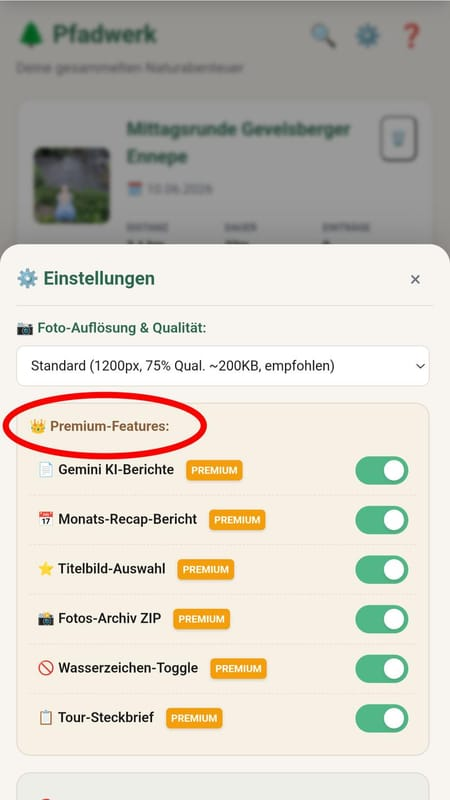
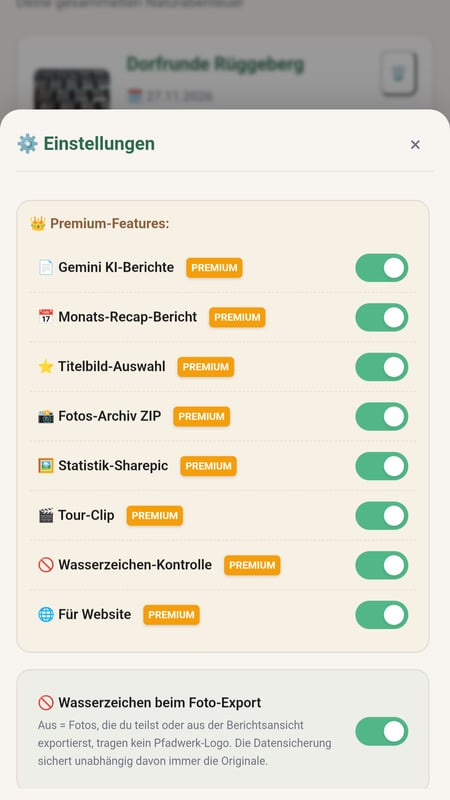
Pfadwerk-Seite auf 4.13.3 mit neuen Screenshots, Datenschutz 5.5 zu Google-Schriften angepasst

diff --git a/src/legal/datenschutz.html b/src/legal/datenschutz.html
@@ -70,7 +70,7 @@
 
           <p class="text-stone-400 font-medium mt-3 mb-1">5.5 Keine Werbung, kein Tracking</p>
           <p>Pfadwerk enthält keine Werbe-SDKs und keine Analyse- oder Tracking-Software und sendet keine Nutzungsstatistiken an uns.</p>
-          <p class="mt-2">Exportierte HTML-Berichte laden beim Öffnen mit Internetverbindung Schriften von Google; dabei erhält Google die IP-Adresse der Person, die den Bericht öffnet.</p>
+          <p class="mt-2">HTML-Berichte, die mit einer App-Version vor 4.13.3 exportiert wurden oder werden, laden beim Öffnen mit Internetverbindung Schriften von Google; dabei erhält Google die IP-Adresse der Person, die den Bericht öffnet.</p>
 
           <p class="text-stone-400 font-medium mt-3 mb-1">5.6 Benötigte Berechtigungen (Übersicht)</p>
           <ul class="mt-2 space-y-1.5 pl-4 list-disc list-outside">

diff --git a/src/content/pages/pfadwerk.md b/src/content/pages/pfadwerk.md
@@ -3,7 +3,7 @@ title: Pfadwerk
 description: Pfadwerk ist eine Android-App zum Dokumentieren von Wanderungen, Spaziergängen und Radtouren. Touren, Logbuch, GPS, Wetter, Fotos, Statistik und Berichte – die Daten bleiben standardmäßig auf dem Gerät.
 badge: 📱 App-Projekt
 subtitle: Draußen sein. Aufschreiben. Nicht vergessen.
-status: "Stand: September 2026"
+status: "Stand: November 2026"
 ---
 *Eine App. Ein Projekt. Eine kleine Liebesgeschichte mit der Natur. · Björn alias Mo, Vater von mitrilmo · 2026*
 
@@ -11,7 +11,7 @@ status: "Stand: September 2026"
 
 ## 1. Der Grundgedanke
 
-Es beginnt, wie so viele gute Ideen, mit einem kleinen Ärgernis: Man kommt von einer wunderschönen Wanderung zurück, möchte kurz festhalten, wo man war, wie das Wetter war, welche Ausrüstung gefehlt hat — und stellt fest, dass die vorhandenen Apps entweder zu viel wollen (Strava zählt Kalorien, als ob das je jemanden interessiert), zu wenig können (Notizen-Apps kennen keine Touren) oder einfach nicht so funktionieren, wie man selbst denkt.
+Es beginnt, wie so viele gute Ideen, mit einem kleinen Ärgernis: Man kommt von einer wunderschönen Wanderung zurück, möchte kurz festhalten, wo man war, wie das Wetter war, welche Ausrüstung gefehlt hat — und stellt fest, dass die vorhandenen Apps entweder zu viel wollen (Fitness-Apps zählen Kalorien, als ob das je jemanden interessiert), zu wenig können (Notizen-Apps kennen keine Touren) oder einfach nicht so funktionieren, wie man selbst denkt.
 
 Pfadwerk ist die Antwort darauf. Eine App, die genau das macht, was ein Wandertagebuch machen würde — nur eben digital, immer dabei und ohne dass man am nächsten Morgen die eigene Handschrift entziffern muss.
 
@@ -22,7 +22,8 @@ Der Name ist Programm: "Pfad" für die Wege, die man geht. "Werk" für das Handw
 Pfadwerk ist kein Fitness-Tracker. Es interessiert sich nicht dafür, wie viele Kalorien man beim Aufstieg verbrannt hat. Es gibt keine sozialen Feeds, keine Ranglisten. Stattdessen:
 
 - Touren dokumentieren — Wanderungen, Spaziergänge und Radtouren
-- Touren vorab planen und am Tourtag mit einem Tipp starten
+- Touren vorab planen, mit Packliste und Strecke, und am Tourtag mit einem Tipp starten
+- Aus den Tourfotos ein kurzes Hochformat-Video erstellen (Premium)
 - GPS-Spur aufzeichnen, ohne dass der Akku sofort kapituliert
 - Unterwegs Logbuch-Einträge schreiben, Fotos schießen, Koordinaten speichern
 - Wetter festhalten — weil man das in drei Jahren vergessen hat
@@ -40,13 +41,13 @@ Und das alles funktioniert offline, ohne Cloud-Konto, ohne monatliche Gebühren.
 ## 2. Wie es entstand — Eine ehrliche Geschichte
 
 ![Pfadwerk Anleitung Einstieg](../../assets/images/pfadwerk/Abb2.jpg)
-*Abb. 2: Pfadwerks vier Hauptbereiche.*
+*Abb. 2: Der erste Einstieg in der Anleitung.*
 
 Pfadwerk ist ein Ein-Personen-Projekt, entstanden in Zusammenarbeit mit einer KI. Das klingt zunächst weniger romantisch als "ich habe das in einer Garage alleine gebaut" — ist aber die ehrlichste Beschreibung dessen, was hier passiert ist.
 
 Die App wurde in mehreren Entwicklungs-Blöcken aufgebaut und anschließend in mehreren Feldtests auf echten Wanderungen erprobt. Die dabei gefundenen Fehler wurden akribisch protokolliert und behoben — was erklärt, warum die App in Version 4.9.53 angekommen ist, bevor sie am 22.07.2026 im Store erschien.
 
-Seitdem geht es weiter: Eigene Touren, Rückmeldungen und neue Ideen führen zu Korrekturen und neuen Funktionen. Aktuell ist die App bei Version 4.9.80.
+Seitdem geht es weiter: Eigene Touren, Rückmeldungen und neue Ideen führen zu Korrekturen und neuen Funktionen. Aktuell ist die App bei Version 4.13.3.
 
 ### Die Entwicklungs-Blöcke
 
@@ -61,7 +62,7 @@ Die App entstand in klar strukturierten Phasen:
 Pfadwerk wurde in mehreren Runden ausgiebig im echten Einsatz getestet. Jede Runde brachte neue Erkenntnisse — und neue Commits.
 
 ![Pfadwerk Die 3 Bereiche](../../assets/images/pfadwerk/Abb3.jpg)
-*Abb. 3: Die untere Navigationsleiste.*
+*Abb. 3: Die drei Bereiche der App.*
 
 ### Datenspeicherung — Lokal und sicher
 
@@ -83,7 +84,7 @@ Das Ergebnis: Eine App, die sich nativ anfühlt, schnell ist und keinen Server b
 - **Plattform:** Android (nativ)
 - **Datenspeicherung:** Lokal, KI optional online
 - **GPS:** Hintergrund-Tracking
-- **Version:** v4.9.80
+- **Version:** v4.13.3
 
 ## 4. Die Funktionen im Detail
 
@@ -138,9 +139,12 @@ Fotos lassen sich direkt aus der App heraus schießen oder aus der Galerie impor
 ![Foto mit Pfadwerk-Wasserzeichen](../../assets/images/pfadwerk/Abb10.jpg)
 *Abb. 10: Das Pfadwerk-Logo als Wasserzeichen auf Fotos.*
 
+![Foto mit Notiz teilen](../../assets/images/pfadwerk/Abb16.jpg)
+*Abb. 11: „Mit Notiz teilen“ mit Vorschau.*
+
 ### 4.8 Touren vorab planen
 
-Eine Route ist schon im Kopf oder in einer anderen App geplant? Dann lässt sich die Tour vorab erfassen — mit Name, Start und Ziel, Datum, Anreise, Ausrüstung und Tipps, ganz ohne GPS-Start. Die Übersicht zeigt alle geplanten Touren, sie lassen sich bearbeiten oder löschen. Am Tourtag genügt ein Tipp auf „Starten“: Die Angaben sind übernommen, und die GPS-Aufzeichnung beginnt.
+Eine Route ist schon im Kopf oder in einer anderen App geplant? Dann lässt sich die Tour vorab erfassen — mit Name, Start und Ziel, Datum, Anreise, Ausrüstung und Tipps, ganz ohne GPS-Start. Die Übersicht zeigt alle geplanten Touren, sie lassen sich bearbeiten oder löschen. Dazu kommen eine Packliste je Tourart zum Abhaken und die Eckdaten der Strecke, von Hand eingetragen oder aus einer GPX-Datei gelesen. Am Tourtag genügt ein Tipp auf „Starten“: Die Angaben sind übernommen, und die GPS-Aufzeichnung beginnt.
 
 ### 4.9 Statistik und Jahresziele
 
@@ -151,7 +155,7 @@ Das Statistik-Dashboard zeigt Gesamtkilometer, Anzahl der Touren, die häufigste
 Am Ende einer Tour, wenn man wieder zuhause ist und die Wanderschuhe in der Ecke stehen, fängt der zweite Teil von Pfadwerk an: die Dokumentation.
 
 ![Berichte Tab](../../assets/images/pfadwerk/Abb11.jpg)
-*Abb. 11: Berichte Tab (Template / KI).*
+*Abb. 12: Berichte Tab (Template / KI).*
 
 ### 5.1 Automatisch generierte Berichte
 
@@ -159,26 +163,32 @@ Pfadwerk erstellt aus den erfassten Daten automatisch Berichte in drei Varianten
 
 - **Langer Bericht:** Vollständige Dokumentation aller Daten
 - **Kurzer Bericht:** Kompakter Überblick, ideal zum Teilen
-- **Social-Media-Post:** Fertig formuliert für Instagram & Co.
+- **Social-Media-Post:** Fertig formuliert für soziale Netzwerke
 
 ### 5.2 Exporte
 
 - **HTML-Export (Premium):** Vollständiger Blog-Beitrag als HTML-Datei — mit Fotos, GPS-Daten und formatiertem Text
-- **GPX-Export:** GPS-Spur im Standardformat für Navi-Apps und Komoot
+- **GPX-Export:** GPS-Spur im Standardformat für Navi- und Routenplanungs-Apps
 - **TXT-Export:** Alle Daten als einfache Textdatei
 - **PDF-Export (Premium):** Fertig formatierter Bericht zum Ausdrucken oder Weitergeben — mit den Fotos neben dem Text in zwei Spalten
-- **Sharepic (Premium):** Bild mit Routen-Silhouette und den wichtigsten Zahlen einer Tour, zum Teilen
+- **Sharepic (Premium):** Bild mit Routen-Silhouette, Start- und Zielort und den wichtigsten Zahlen einer Tour, in 4:5 oder im Hochformat 9:16
+- **Clip (Premium):** Hochformat-Video aus den Fotos einer abgeschlossenen Tour, siehe unten
+- **Für Website (Premium):** eine Tour mit Daten, Strecke und Titelbild als ZIP-Datei
 
-![Export Dialog](../../assets/images/pfadwerk/Abb12.jpg)
-*Abb. 12: GPX-, HTML- und TXT-Export.*
+![Dialog „Tour exportieren & teilen“](../../assets/images/pfadwerk/Abb12.jpg)
+*Abb. 13: Tour exportieren und teilen.*
 
-### 5.3 Datensicherung
+### 5.3 Clip aus Tourfotos
+
+Aus den Fotos einer abgeschlossenen Tour entsteht auf dem Gerät ein Video im Hochformat, 15 bis 45 Sekunden lang: Startkarte mit Tourname, die ausgewählten Fotos, bei aufgezeichneter Strecke das Sharepic und eine Endkarte. Als Ton wählst du eine eigene Audiodatei, etwa Musik oder einen Kommentar, den du vorher aufgenommen hast, oder du lässt den Clip stumm. Ein Lieblingsstück kannst du als Standardmusik merken; dann richtet sich die Länge nach den Fotos, und die Musik wird ausgeblendet. Verwende nur Audio, das du teilen darfst. Der Clip ist als Rohmaterial für einen Videoeditor gedacht.
+
+### 5.4 Datensicherung
 
 Verlassen sollte man sich auf die eigene Datensicherung von Pfadwerk. Sie wird von Hand angestoßen. Android kann je nach Geräteeinstellung zusätzlich sichern, aber nur bis 25 MB je App in der Cloud, und das reicht bei vielen Fotos nicht.
 
 In den Einstellungen lassen sich alle Touren und Logbucheinträge als Datei sichern. Die Fotos werden getrennt gesichert, auf Wunsch monatsweise, damit die Dateien handlich bleiben. Sie enthalten kein Logo und sind so, wie sie in der App gespeichert sind — für alle Nutzer, auch ohne Premium.
 
-Beim Zurückspielen ergänzt Pfadwerk vorhandene Touren, statt sie zu überschreiben oder doppelt anzulegen; die Fotos werden danach aus der Fotosicherung wiederhergestellt. Geplante Touren und Einstellungen sind nicht Teil der Sicherung.
+Beim Zurückspielen ergänzt Pfadwerk vorhandene Touren, statt sie zu überschreiben oder doppelt anzulegen; die Fotos werden danach aus der Fotosicherung wiederhergestellt. Ab Version 4.13 gehören geplante Touren mit zur Sicherung, Einstellungen und Vorlagen nicht.
 
 ## 6. Premium-Funktionen
 
@@ -189,26 +199,28 @@ Pfadwerk ist kostenlos, und die Premium-Funktionen sind für alle offen: Der Fre
 Eingeben in der App unter **Einstellungen → Premium → Freischalt-Code**. Der Code gilt für den laufenden Monat (mit ein paar Tagen Kulanz), danach sperrt die App die Premium-Funktionen wieder — dann den neuen Code eingeben, der am Monatsersten hier steht. Groß- und Kleinschreibung sowie Bindestriche sind egal.
 
 ![Premium Einstellungen](../../assets/images/pfadwerk/Abb13.jpg)
-*Abb. 13: Premium Features in den Einstellungen.*
+*Abb. 14: Premium Features in den Einstellungen.*
 
 - KI-Wanderbericht mit Gemini (eigener kostenloser Schlüssel, braucht Internet)
 - HTML-Blogbeitrag und PDF-Export
 - Monats-Recap: alle Touren eines Monats in einem Bericht
 - Titelbild für jede Tour frei wählbar
 - Fotos einer Tour als ZIP exportieren
-- Sharepic zu jeder Tour mit Routen-Silhouette
+- Sharepic zu jeder Tour mit Routen-Silhouette, auch im Hochformat
+- Clip aus den Tourfotos mit eigener Musik oder eigenem Sprachkommentar
+- Export „Für Website“ als ZIP-Datei
 - Wasserzeichen beim Teilen von Fotos abschaltbar
 
 Ohne Code nutzbar sind unter anderem Statistik-Dashboard, Jahresziele, Datensicherung und „Mit Notiz teilen“.
 
 ### KI-Reisebericht
 
-Die bemerkenswerteste Premium-Funktion: Pfadwerk kann aus den erfassten Daten mit Hilfe von Gemini einen vollständigen, lesbaren Wanderbericht generieren. Kein Copy-Paste, kein Nachbearbeiten — einfach tippen und lesen. Dafür braucht es einen eigenen, kostenlosen Google-Schlüssel (Google AI Studio) und eine Internetverbindung. Die Tourdaten und Logbuchtexte gehen dabei — ohne Fotos — an Google, mehr dazu in der [Datenschutzerklärung](index.html#datenschutz).
+Die bemerkenswerteste Premium-Funktion: Pfadwerk kann aus den erfassten Daten mit Hilfe von Gemini einen vollständigen, lesbaren Wanderbericht generieren. Kein Copy-Paste, kein Nachbearbeiten — einfach tippen und lesen. Ab Version 4.13.3 ist jeder so erzeugte Text als KI-erstellt gekennzeichnet, auch beim Kopieren und Exportieren. Dafür braucht es einen eigenen, kostenlosen Google-Schlüssel (Google AI Studio) und eine Internetverbindung. Die Tourdaten und Logbuchtexte gehen dabei — ohne Fotos — an Google, mehr dazu in der [Datenschutzerklärung](index.html#datenschutz).
 
 Der KI-Bericht landet direkt im HTML-Export und kann sofort auf einer Website veröffentlicht werden.
 
 ![KI Wanderbericht](../../assets/images/pfadwerk/Abb14.jpg)
-*Abb. 14: Ein von Gemini erstellter Reisebericht.*
+*Abb. 15: Ein von Gemini erstellter Reisebericht.*
 
 ## 7. Komfort-Funktionen
 
@@ -220,12 +232,15 @@ Für alle, die eine etwas größere Schrift bevorzugen: Pfadwerk bietet einen Ea
 
 Eine eingebaute Hilfe-Sektion erklärt die wichtigsten Funktionen mit kurzen, praxisnahen Tipps. Direkt in der App, ohne externe Links.
 
+![Tipps und Tricks](../../assets/images/pfadwerk/Abb15.jpg)
+*Abb. 16: Tipps & Tricks in der App.*
+
 ### 7.3 Pfadwerk weiterempfehlen
 
 In den Einstellungen zeigt ein QR-Code den Store-Eintrag der App — praktisch, um Pfadwerk unterwegs direkt jemandem zu zeigen.
 
-![Tipps und Tricks](../../assets/images/pfadwerk/Abb15.jpg)
-*Abb. 15: Tipps & Tricks in der App.*
+![QR-Code zum Weiterempfehlen](../../assets/images/pfadwerk/Abb17.jpg)
+*Abb. 17: Der QR-Code führt zum Store-Eintrag.*
 
 ## 8. Ausblick
 
@@ -241,7 +256,7 @@ Parallel dazu reifen bereits weitere Ideen in der "Werk"-Familie. Vielleicht wir
 
 **Aktueller Stand**
 
-- **Version:** v4.9.80 — laufend weiterentwickelt, mehrfach feldgetestet
+- **Version:** v4.13.3 — laufend weiterentwickelt, mehrfach feldgetestet
 - **Status:** Seit 22.07.2026 im Google Play Store
 - **Entstanden:** Als Ein-Personen-Projekt mit KI-Unterstützung
 - **Plattform:** Android (kein iOS)
